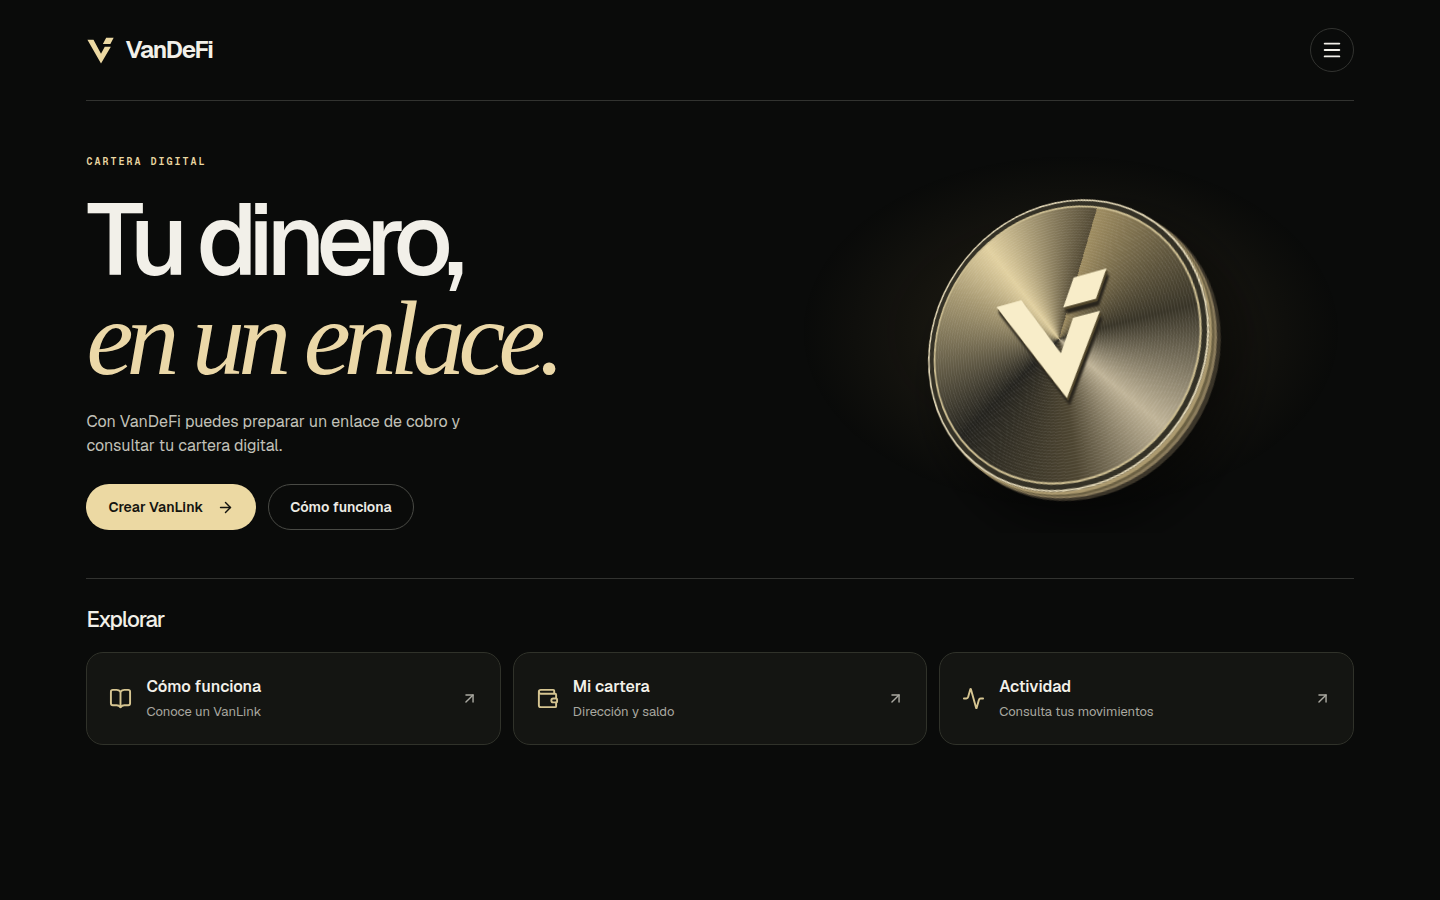
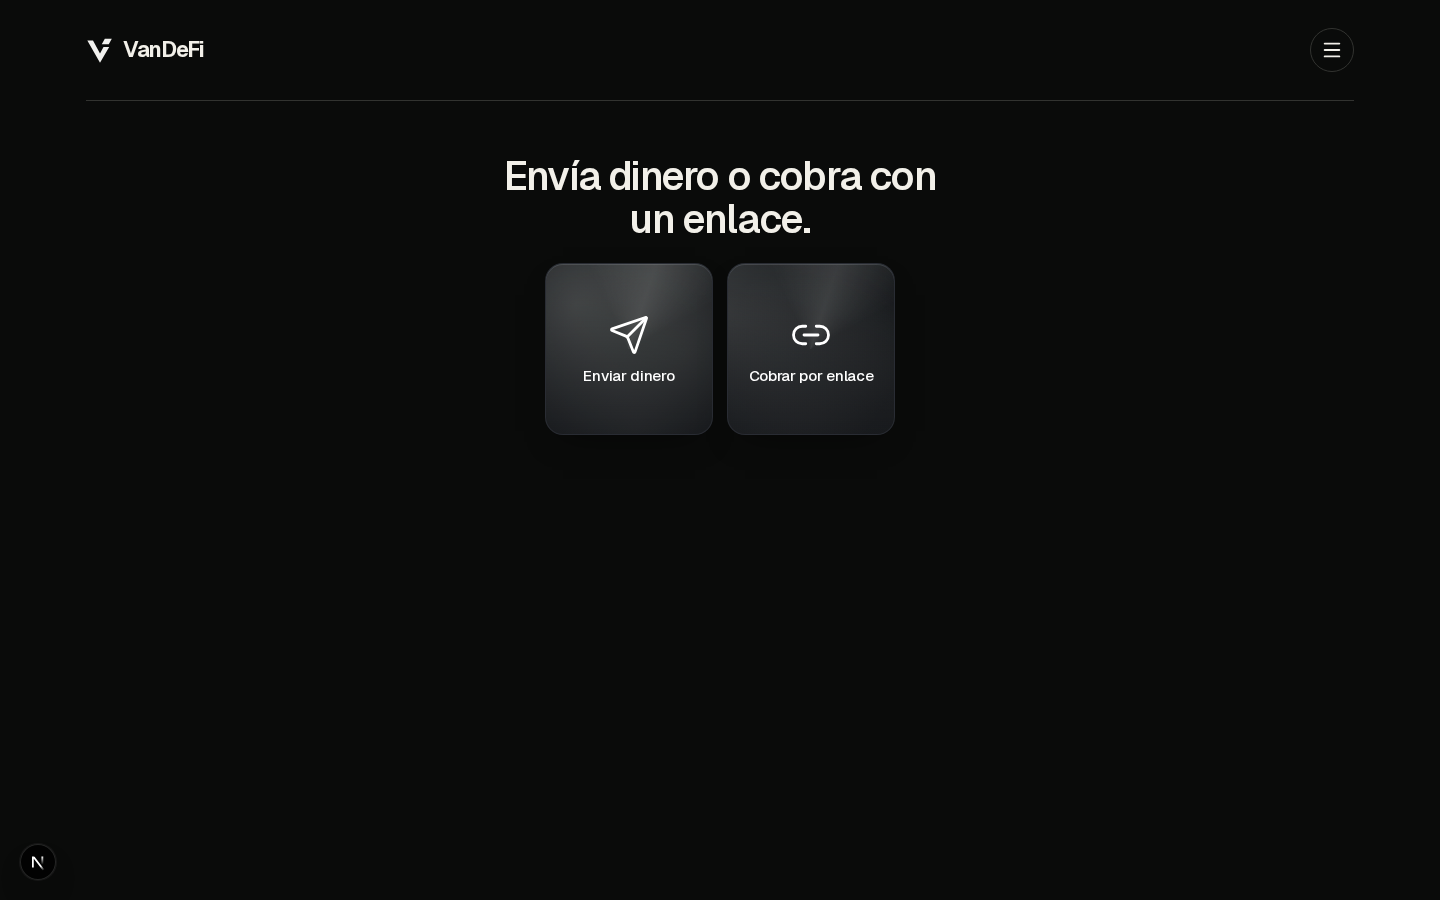
Dejar dos acciones en la portada y el resto en el menú.
Enviar dinero y Cobrar por enlace quedan visibles sin desplazamiento. La hamburguesa abre cartera, actividad y cómo funciona. El panel de remesas no ofrece ruta ni precio. No se crean wallets.

diff --git a/components/module-one/home.tsx b/components/module-one/home.tsx
@@ -3,20 +3,110 @@
 import { useEffect, useRef, useState } from "react";
 import { useRouter } from "next/navigation";
 import { useAuth } from "@clerk/nextjs";
-import { Activity, ArrowDownLeft, ArrowRight, BookOpen, Link2, Menu, Wallet, X } from "lucide-react";
+import { Activity, ArrowRight, BookOpen, Link2, Menu, Send, Wallet, X } from "lucide-react";
 import { Logo, Wordmark } from "@/components/brand/logo";
 import { CreateVanLinkForm } from "@/components/vanlink/create-form";
 import { ActivityList } from "@/components/wallet/activity-list";
 import { authConfigured } from "@/lib/auth-config";
 import { originFrom, panelFrom, panelPath, type Panel } from "@/lib/navigation/module-one";
-import Rail from "./rail";
+import { rankRemittanceQuotes } from "@/lib/remittance/rail-policy";
 
-const choices = [
-  { panel: "guia", title: "Cómo funciona", summary: "Conoce un VanLink", icon: BookOpen },
-  { panel: "cartera", title: "Mi cartera", summary: "Dirección y saldo", icon: Wallet },
-  { panel: "actividad", title: "Actividad", summary: "Consulta tus movimientos", icon: Activity },
+const secondary = [
+  { panel: "cartera", title: "Mi cartera", icon: Wallet },
+  { panel: "actividad", title: "Actividad", icon: Activity },
+  { panel: "guia", title: "Cómo funciona", icon: BookOpen },
 ] as const;
-const titles = { menu: "Menú", guia: "Cómo funciona", crear: "Crear VanLink", cartera: "Mi cartera", actividad: "Actividad" };
+
+const titles = {
+  menu: "Menú",
+  guia: "Cómo funciona",
+  enviar: "Enviar dinero",
+  crear: "Crear VanLink",
+  cartera: "Mi cartera",
+  actividad: "Actividad",
+};
+
+const places = [
+  { id: "MX", name: "México" },
+  { id: "US", name: "Estados Unidos" },
+  { id: "CO", name: "Colombia" },
+  { id: "GT", name: "Guatemala" },
+  { id: "VE", name: "Venezuela" },
+] as const;
+
+type PlaceId = (typeof places)[number]["id"];
+
+function isPlace(value: unknown): value is PlaceId {
+  return places.some((place) => place.id === value);
+}
+
+function RemittancePanel() {
+  const [from, setFrom] = useState<PlaceId>("MX");
+  const [to, setTo] = useState<PlaceId>("US");
+  const [restored, setRestored] = useState(false);
+  const [availability, setAvailability] = useState<"loading" | "paused" | "closed" | "error">("loading");
+  const [attempt, setAttempt] = useState(0);
+
+  useEffect(() => {
+    try {
+      const saved = JSON.parse(sessionStorage.getItem("vd-remit-intent") || "null") as { from?: unknown; to?: unknown } | null;
+      if (isPlace(saved?.from)) setFrom(saved.from);
+      if (isPlace(saved?.to)) setTo(saved.to);
+    } catch { /* a broken draft must not block the panel */ }
+    setRestored(true);
+  }, []);
+
+  useEffect(() => {
+    if (!restored) return;
+    try { sessionStorage.setItem("vd-remit-intent", JSON.stringify({ from, to })); } catch { /* private mode */ }
+  }, [from, to, restored]);
+
+  useEffect(() => {
+    const controller = new AbortController();
+    setAvailability("loading");
+    fetch("/api/polygon/availability", { cache: "no-store", signal: controller.signal })
+      .then(async (response) => {
+        if (!response.ok) throw new Error("availability");
+        const data = await response.json() as { network?: string; chainId?: number; asset?: string; sendEnabled?: boolean; receiveEnabled?: boolean };
+        const known = data.network === "polygon" && data.chainId === 137 && data.asset === "USDT";
+        if (!known) throw new Error("availability");
+        const quotes = rankRemittanceQuotes({
+          inputAsset: "USDT",
+          inputAmount: "1",
+          nowMs: Date.now(),
+          allowedRails: ["polygon"],
+          scope: "fiat-payout",
+        }, []);
+        if (quotes.length > 0) throw new Error("unexpected-route");
+        setAvailability(data.sendEnabled === false && data.receiveEnabled === false ? "paused" : "closed");
+      })
+      .catch(() => { if (!controller.signal.aborted) setAvailability("error"); });
+    return () => controller.abort();
+  }, [attempt]);
+
+  return (
+    <form className="m-remit" onSubmit={(event) => event.preventDefault()}>
+      <p>Elige de dónde sale y a dónde va. Aquí no hay cotización ni envío.</p>
+      <label htmlFor="remit-from">Origen
+        <select id="remit-from" value={from} onChange={(event) => { if (isPlace(event.target.value)) setFrom(event.target.value); }}>
+          {places.map((place) => <option key={place.id} value={place.id}>{place.name}</option>)}
+        </select>
+      </label>
+      <label htmlFor="remit-to">Destino
+        <select id="remit-to" value={to} onChange={(event) => { if (isPlace(event.target.value)) setTo(event.target.value); }}>
+          {places.map((place) => <option key={place.id} value={place.id}>{place.name}</option>)}
+        </select>
+      </label>
+      <p role="status" className="m-status">
+        {availability === "loading" && "Consultando disponibilidad."}
+        {availability === "paused" && "No hay ruta disponible. USDT en Polygon está en pausa. La cotización y el envío llegan en un módulo posterior."}
+        {availability === "closed" && "No hay ruta disponible para cotizar ni enviar. La cotización y el envío llegan en un módulo posterior."}
+        {availability === "error" && "No pudimos consultar la disponibilidad."}
+      </p>
+      {availability === "error" && <button type="button" className="m-primary" onClick={() => setAttempt((n) => n + 1)}>Reintentar</button>}
+    </form>
+  );
+}
 
 function WalletSummary() {
   const [state, setState] = useState<{ status: "loading" | "empty" | "error" | "ready"; amount?: string; address?: string }>({ status: "loading" });
@@ -35,11 +125,13 @@ function WalletSummary() {
     load().catch(() => { if (!controller.signal.aborted) setState({ status: "error" }); });
     return () => controller.abort();
   }, [attempt]);
+  const confirmedZero = state.status === "ready" && Number(state.amount) === 0;
   return <div className="m-wallet" aria-live="polite">
-    {state.status === "loading" && <p>Consultando tu cartera y saldo…</p>}
-    {state.status === "empty" && <p>Tu cuenta aún no tiene una cartera vinculada. Las altas están en pausa.</p>}
-    {state.status === "error" && <><p>No pudimos consultar el saldo.</p><button onClick={() => setAttempt(n => n + 1)}>Reintentar</button></>}
-    {state.status === "ready" && <><small>Saldo confirmado en Polygon</small><h3>{state.amount} USDT</h3><p>Dirección de tu cartera</p><code>{state.address}</code><p>Envíos y depósitos de USDT en Polygon en pausa.</p></>}
+    {state.status === "loading" && <p>Consultando</p>}
+    {state.status === "empty" && <p>Esta cuenta no tiene una cartera vinculada. No se crea una cartera desde aquí.</p>}
+    {state.status === "error" && <><p>No pudimos consultar el saldo.</p><button type="button" className="m-primary" onClick={() => setAttempt(n => n + 1)}>Reintentar</button></>}
+    {confirmedZero && <><small>Cero confirmado</small><h3>0 USDT</h3><p>Dirección de tu cartera</p><code>{state.address}</code><p>USDT en Polygon sigue en pausa. Esta consulta no mueve fondos.</p></>}
+    {state.status === "ready" && !confirmedZero && <><small>Saldo confirmado</small><h3>{state.amount} USDT</h3><p>Dirección de tu cartera</p><code>{state.address}</code><p>USDT en Polygon sigue en pausa. Esta consulta no mueve fondos.</p></>}
   </div>;
 }
 
@@ -61,10 +153,10 @@ function AccountPanel({ panel, path }: { panel: Panel; path: string }) {
     return () => controller.abort();
   }, [attempt]);
   if (session.status === "loading") return <p role="status">Comprobando tu cuenta…</p>;
-  if (session.status === "error") return <><p role="alert">No pudimos conectar con tu cuenta. Tu acción sigue guardada.</p><button className="m-primary" onClick={() => setAttempt(n => n + 1)}>Reintentar</button></>;
+  if (session.status === "error") return <><p role="alert">No pudimos conectar con tu cuenta. Tu acción sigue guardada.</p><button type="button" className="m-primary" onClick={() => setAttempt(n => n + 1)}>Reintentar</button></>;
   if (session.status === "guest") {
     const query = "?volver=" + encodeURIComponent(path);
-    return <><p>{panel === "crear" ? "Entra para preparar tu enlace de cobro. Volverás aquí al terminar." : "Entra para consultar la información de tu cuenta."}</p>
+    return <><p>{panel === "crear" ? "Entra para preparar tu enlace de cobro. Volverás a este formulario al terminar. Entrar no publica un cobro." : "Entra para consultar la información de tu cuenta."}</p>
       <div className="m-actions"><a className="m-primary" href={"/login" + query}>Entrar <ArrowRight size={17} /></a><a className="m-secondary" href={"/sign-up" + query}>Crear cuenta</a></div></>;
   }
   if (panel === "crear") return <CreateVanLinkForm key={session.id} owner={session.id} />;
@@ -77,8 +169,6 @@ function AccountBoundary(props: { panel: Panel; path: string }) {
   return <AccountPanel key={userId || "guest"} {...props} />;
 }
 
-// Portada/Hero and the capsule rail are adapted from turbillon50/vliving-2026.
-// VanDeFi supplies its own destinations, typography, artwork and financial state.
 export function ModuleHome() {
   const router = useRouter();
   const [panel, setPanel] = useState<Panel | null>(null);
@@ -121,22 +211,31 @@ export function ModuleHome() {
     else router.replace(origin);
     requestAnimationFrame(() => (trigger.current?.isConnected ? trigger.current : fallback.current)?.focus({ preventScroll: true }));
   }
-  const menuItems = [{ panel: "crear", title: "Crear VanLink", icon: Link2 }, ...choices] as const;
   return <main className="m-home">
-    <nav className="m-nav" aria-label="Principal"><a href="/" className="m-word"><Logo size={30} /><Wordmark /></a>
-      <button className="m-round" ref={fallback} aria-label="Abrir menú" onClick={() => open("menu")}><Menu size={22} /></button></nav>
-    <header className="m-hero"><div className="m-copy"><h1>Cobrar por enlace</h1>
-      <p>Prepara un VanLink y compártelo por mensaje.</p>
-      <div className="m-actions"><button className="m-primary" onClick={() => open("crear")}>Crear VanLink <ArrowRight size={17} /></button>
-      <button className="m-secondary" onClick={() => open("guia")}>Cómo funciona</button></div></div></header>
-    <section className="m-discover" aria-labelledby="explorar"><h2 id="explorar">Explorar</h2>
-      <Rail className="m-rail">{choices.map(({panel: id,title,summary,icon: Icon})=><button key={id} className="m-tile" onClick={()=>open(id)}><Icon size={23}/><span><strong>{title}</strong><small>{summary}</small></span><ArrowDownLeft size={17}/></button>)}</Rail>
-    </section>
-    {panel && <dialog ref={dialog} className="m-sheet" aria-labelledby="m-title" onCancel={e=>{e.preventDefault();close();}} onClick={e=>{if(e.target===e.currentTarget){const r=e.currentTarget.getBoundingClientRect();if(e.clientX<r.left||e.clientX>r.right||e.clientY<r.top||e.clientY>r.bottom)close();}}}>
-      <header><h2 id="m-title">{titles[panel]}</h2><button className="m-round" aria-label="Cerrar panel" onClick={close}><X size={21}/></button></header>
-      {panel === "menu" ? <div className="m-menu">{menuItems.map(({panel:id,title,icon:Icon})=><button key={id} onClick={()=>open(id)}><Icon size={19}/>{title}<ArrowRight size={16}/></button>)}</div>
-       : panel === "guia" ? <><p>Un VanLink es una solicitud de cobro que puedes compartir por mensaje.</p><ol><li>Elige la red, el importe y el concepto.</li><li>Revisa los datos antes de publicar tu enlace.</li><li>Quien lo recibe puede ver la solicitud y comprobar la red.</li></ol><p>Los cobros en USDT por Polygon están en pausa.</p><button className="m-primary" onClick={()=>open("crear")}>Crear VanLink <ArrowRight size={17}/></button></>
-       : authConfigured ? <AccountBoundary key={panel} panel={panel} path={panelPath(panel,origin)} /> : <p role="status">El acceso no está disponible en este momento.</p>}
+    <nav className="m-nav" aria-label="Principal">
+      <a href="/" className="m-word"><Logo size={28} /><Wordmark size={22} /></a>
+      <button className="m-round" ref={fallback} type="button" aria-label="Abrir menú" aria-expanded={panel === "menu"} onClick={() => open("menu")}><Menu size={22} /></button>
+    </nav>
+    <header className="m-stage">
+      <h1>Envía dinero o cobra con un enlace.</h1>
+      <div className="m-routes">
+        <button type="button" className="m-route" onClick={() => open("enviar")}>
+          <span className="m-mesh" aria-hidden="true" /><span className="m-luz" aria-hidden="true" /><span className="m-vidrio" aria-hidden="true" />
+          <Send className="m-ico" aria-hidden="true" /><b>Enviar dinero</b>
+        </button>
+        <button type="button" className="m-route" onClick={() => open("crear")}>
+          <span className="m-mesh" aria-hidden="true" /><span className="m-luz" aria-hidden="true" /><span className="m-vidrio" aria-hidden="true" />
+          <Link2 className="m-ico" aria-hidden="true" /><b>Cobrar por enlace</b>
+        </button>
+      </div>
+    </header>
+    {panel && <dialog ref={dialog} className="m-sheet" aria-labelledby="m-title" onCancel={e => { e.preventDefault(); close(); }} onClick={e => { if (e.target === e.currentTarget) { const r = e.currentTarget.getBoundingClientRect(); if (e.clientX < r.left || e.clientX > r.right || e.clientY < r.top || e.clientY > r.bottom) close(); } }}>
+      <span className="m-handle" aria-hidden="true" />
+      <header><h2 id="m-title">{titles[panel]}</h2><button className="m-round" type="button" aria-label="Cerrar panel" onClick={close}><X size={21} /></button></header>
+      {panel === "menu" ? <div className="m-menu">{secondary.map(({ panel: id, title, icon: Icon }) => <button key={id} type="button" onClick={() => open(id)}><Icon size={19} />{title}<ArrowRight size={16} /></button>)}</div>
+        : panel === "guia" ? <><p>Un VanLink es una solicitud de cobro que puedes compartir por mensaje.</p><ol><li>Elige la red, el importe y el concepto.</li><li>Revisa los datos antes de publicar tu enlace.</li><li>Quien lo recibe puede ver la solicitud y comprobar la red.</li></ol><p>Los cobros en USDT por Polygon están en pausa. Entrar no publica un cobro.</p><button type="button" className="m-primary" onClick={() => open("crear")}>Cobrar por enlace <ArrowRight size={17} /></button></>
+        : panel === "enviar" ? <RemittancePanel />
+        : authConfigured ? <AccountBoundary key={panel} panel={panel} path={panelPath(panel, origin)} /> : <p role="status">El acceso no está disponible en este momento. Puedes seguir explorando.</p>}
     </dialog>}
   </main>;
 }

diff --git a/components/module-one/home.css b/components/module-one/home.css
@@ -5,21 +5,44 @@
 .m-word{display:inline-flex;gap:9px;align-items:center;color:var(--m-ink);text-decoration:none}
 .m-word svg{color:var(--m-accent)}
 .m-round{display:grid;place-items:center;width:44px;height:44px;color:var(--m-ink);background:transparent;border:1px solid var(--m-edge);border-radius:50%;cursor:pointer}
-.m-hero{padding:clamp(40px,7vh,82px) 0}
-.m-copy{position:relative;z-index:1}
-.m-copy h1{font:540 clamp(40px,5vw,72px)/1.07 var(--font-geist-sans),sans-serif;letter-spacing:-.055em;margin:0 0 16px}
-.m-copy>p,.m-sheet p,.m-sheet li{font-size:16px;line-height:1.55;color:#c1c1b8}
-.m-copy>p{max-width:39ch;margin:0 0 25px}
+.m-stage{display:flex;flex-direction:column;align-items:center;text-align:center;padding:clamp(28px,6vh,64px) 0 8px}
+.m-stage h1{margin:0;max-width:16ch;font:560 clamp(26px,6.4vw,40px)/1.08 var(--font-geist-sans),Arial,sans-serif;letter-spacing:-.045em}
+.m-routes{display:grid;grid-template-columns:repeat(2,minmax(0,168px));gap:14px;justify-content:center;width:100%;margin:22px 0 0}
+.m-route{position:relative;overflow:hidden;aspect-ratio:1/1.02;min-width:0;padding:12px;border-radius:18px;border:1px solid rgba(200,214,228,.16);background:#0b0d11;color:#fff;cursor:pointer;display:flex;flex-direction:column;align-items:center;justify-content:center;gap:12px;box-shadow:inset 0 1px 0 rgba(220,230,240,.16),0 14px 32px -18px rgba(0,0,0,.7);-webkit-tap-highlight-color:transparent;transition:transform .22s ease,box-shadow .22s ease}
+.m-route:active{transform:scale(.97)}
+@media(hover:hover){.m-route:hover{transform:translateY(-2px)}}
+.m-route:active:hover{transform:scale(.97)}
+.m-mesh{position:absolute;inset:-25%;z-index:1;pointer-events:none;background:radial-gradient(circle at 18% 28%,rgba(210,214,208,.28),transparent 42%),radial-gradient(circle at 82% 62%,rgba(120,124,118,.24),transparent 44%),radial-gradient(circle at 48% 88%,rgba(236,236,230,.16),transparent 46%);background-size:160% 160%;animation:m-mesh 7s ease-in-out infinite alternate}
+.m-route:nth-child(2) .m-mesh{animation-delay:-2.4s}
+.m-luz{position:absolute;inset:-60%;z-index:1;pointer-events:none;background:conic-gradient(from 180deg,transparent 0 38%,rgba(230,232,226,.14) 50%,transparent 62%);mix-blend-mode:screen;animation:m-luz 8s linear infinite}
+.m-vidrio{position:absolute;inset:0;z-index:2;pointer-events:none;background:linear-gradient(180deg,rgba(8,10,14,.08),rgba(8,10,14,.55))}
+.m-ico{position:relative;z-index:3;width:clamp(36px,10.5vw,42px);height:auto;aspect-ratio:1;stroke-width:1.6}
+.m-route b{position:relative;z-index:3;font:500 clamp(13px,3.6vw,15px)/1.05 var(--font-geist-sans),Arial,sans-serif;letter-spacing:-.02em}
+.m-handle{display:none}
+.m-remit{display:grid;gap:14px}
+.m-remit label{display:grid;gap:8px;font-size:13px;color:#aaa9a1}
+.m-remit select{min-height:52px;padding:0 14px;border-radius:14px;border:1px solid #3a3b36;background:#10110e;color:#f2f0e9;font:500 16px var(--font-geist-sans),Arial,sans-serif}
 .m-actions{display:flex;align-items:center;gap:12px;flex-wrap:wrap}
-.m-primary,.m-secondary{display:inline-flex;align-items:center;justify-content:center;gap:14px;min-height:46px;padding:0 21px;border:1px solid transparent;border-radius:30px;font:600 14px var(--font-geist-sans),sans-serif;cursor:pointer;text-decoration:none}
+.m-primary,.m-secondary{display:inline-flex;align-items:center;justify-content:center;gap:10px;min-height:46px;padding:0 18px;border:1px solid transparent;border-radius:30px;font:600 14px var(--font-geist-sans),Arial,sans-serif;cursor:pointer;text-decoration:none}
 .m-primary{color:#14140f;background:var(--m-accent)}.m-primary:hover{background:#fff}
 .m-secondary{color:#edece5;background:transparent;border-color:#494a45}
-.m-discover{border-top:1px solid var(--m-edge);padding-top:24px}
-.m-discover h2{margin:0 0 16px;font-size:22px;font-weight:500;letter-spacing:-.045em}
-.m-rail{display:flex;gap:12px;overflow-x:auto;scrollbar-width:none;scroll-snap-type:x proximity}
-.m-tile{flex:1 0 27%;display:flex;align-items:center;gap:14px;text-align:left;background:#141512;border:1px solid #30322a;border-radius:17px;padding:22px;min-height:89px;color:var(--m-ink);cursor:pointer;scroll-snap-align:start}
-.m-tile>svg:first-child{color:#cececa}.m-tile>svg:last-child{margin-left:auto;transform:rotate(180deg);color:var(--m-muted)}
-.m-tile span{display:grid;gap:3px}.m-tile strong{font-size:16px;font-weight:560}.m-tile small{font-size:13px;color:var(--m-muted)}
+.m-sheet p,.m-sheet li{font-size:16px;line-height:1.55;color:#c1c1b8}
+@keyframes m-mesh{from{background-position:0% 20%,100% 80%,40% 100%}to{background-position:80% 0%,10% 40%,70% 20%;transform:scale(1.12)}}
+@keyframes m-luz{to{transform:rotate(360deg)}}
+@media(max-width:730px){
+.m-stage{padding:22px 0 0}
+.m-stage h1{font-size:clamp(24px,6.6vw,30px)}
+.m-routes{grid-template-columns:repeat(2,minmax(0,1fr));gap:10px;margin-top:18px}
+.m-route b{font-size:clamp(13px,3.7vw,15px)}
+.m-handle{display:block;width:38px;height:4px;margin:0 auto 14px;border-radius:999px;background:rgba(255,255,255,.22)}
+}
+@media(min-width:900px){
+.m-routes{grid-template-columns:repeat(2,168px);gap:14px}
+.m-ico{width:42px;height:42px}
+.m-route b{font-size:15px}
+}
+@media(prefers-reduced-motion:reduce){.m-mesh,.m-luz,.m-sheet[open]{animation:none}}
+
 .m-sheet{position:fixed;inset:0 0 0 auto;margin:0;width:min(495px,100vw);height:100dvh;max-height:100dvh;max-width:100vw;padding:32px 30px 48px;border:0;border-left:1px solid #4d4d42;background:#161713;overflow-y:auto;overscroll-behavior:contain;box-sizing:border-box}
 .m-sheet[open]{animation:m-side .2s ease-out}
 .m-sheet::backdrop{background:#0009;backdrop-filter:blur(5px)}
@@ -32,12 +55,7 @@
 @media(max-width:730px){
 .vd-first-paint{display:grid;place-items:center;min-height:100svh;background:#0a0b0a;color:#f1f1ee}
 .m-home{padding:0 21px max(32px,env(safe-area-inset-bottom))}
-.m-nav{padding:calc(12px + env(safe-area-inset-top)) 0 12px}.m-nav .m-round{width:42px;height:42px}
-.m-hero{padding:34px 0 26px}
-.m-copy h1{font-size:clamp(34px,9vw,42px);margin:0 0 12px}
-.m-copy>p{font-size:15px;margin:0 0 18px}.m-actions{gap:9px}
-.m-discover{padding-top:19px}.m-discover h2{font-size:20px;margin-bottom:12px}
-.m-tile{flex:0 0 76%;min-height:76px;padding:15px}
+.m-nav{padding:calc(12px + env(safe-area-inset-top)) 0 12px}.m-nav .m-round{width:44px;height:44px}
 .m-sheet{inset:auto 0 0;width:100%;height:auto;max-height:90dvh;padding:22px 22px max(26px,env(safe-area-inset-bottom));border:1px solid #43463a;border-bottom:0;border-radius:25px 25px 0 0}
 .m-sheet[open]{animation:m-up .18s ease-out}.m-sheet>header{margin-bottom:20px}
 }

diff --git a/components/wallet/activity-list.tsx b/components/wallet/activity-list.tsx
@@ -45,6 +45,7 @@ function AuthenticatedActivityList({ filter }: { filter: ActivityFilter }) {
 }
 
 function UserActivityList({ filter, userId }: { filter: ActivityFilter; userId: string }) {
+  const [attempt, setAttempt] = useState(0);
   const [data, setData] = useState<Response | null>(null);
   const [state, setState] = useState<"cargando" | "listo" | "sin-wallet" | "error">("cargando");
 
@@ -84,14 +85,14 @@ function UserActivityList({ filter, userId }: { filter: ActivityFilter; userId: 
       window.removeEventListener("focus", onFocus);
       document.removeEventListener("visibilitychange", onFocus);
     };
-  }, [userId]);
+  }, [userId, attempt]);
 
-  if (state === "cargando") return <div className="act-skeleton" aria-label="Cargando movimientos" />;
+  if (state === "cargando") return <p role="status">Consultando</p>;
   if (state === "sin-wallet") {
     return <p className="bal-note">Inicia sesión o entra a tu wallet para consultar los movimientos.</p>;
   }
   if (state === "error" || !data) {
-    return <p className="bal-note">No pudimos leer tu actividad ahora. Intenta de nuevo.</p>;
+    return <><p className="bal-note">No pudimos leer tu actividad ahora.</p><button type="button" onClick={() => setAttempt((n) => n + 1)}>Reintentar</button></>;
   }
 
   const list = data.movements.filter((m) => filter === "all" || m.direction === filter);
@@ -106,8 +107,8 @@ function UserActivityList({ filter, userId }: { filter: ActivityFilter; userId: 
       )}
       {list.length === 0 ? (
         <p className="bal-note">
-          {filter === "all" ? (data.baseRecentOnly ? "No encontramos movimientos en la ventana reciente consultada." : "Todavía no hay movimientos.")
-            : filter === "in" ? "Aún no hay entradas." : "Aún no hay salidas."}
+          {filter === "all" ? (data.baseRecentOnly ? "No encontramos movimientos en la ventana reciente consultada." : "Cero confirmado. Todavía no hay movimientos.")
+            : filter === "in" ? "Cero confirmado. Aún no hay entradas." : "Cero confirmado. Aún no hay salidas."}
         </p>
       ) : (
         <ul className="act-list">

diff --git a/components/auth/auth.css b/components/auth/auth.css
@@ -79,7 +79,18 @@
 }
 
 .va-auth-side, .va-auth-form, .va-clerk-cardbox, .va-clerk-card { min-width: 0; }
-.va-auth .va-label { display: block; height: auto !important; min-height: 1.5em; line-height: 1.5 !important; white-space: normal; overflow: visible; }
+.va-auth .va-label,
+.va-auth .cl-formFieldLabel,
+.va-auth .cl-formFieldLabelRow {
+  display: block;
+  height: auto !important;
+  max-height: none !important;
+  min-height: 1.5em;
+  line-height: 1.5 !important;
+  white-space: normal !important;
+  overflow: visible !important;
+  text-overflow: unset !important;
+}
 .va-auth .va-input { min-width: 0; width: 100%; }
 .va-auth .va-auth-panel { overflow: visible; }
 .va-auth .va-primary { position: relative; pointer-events: auto; }

diff --git a/app/layout.tsx b/app/layout.tsx
@@ -12,8 +12,8 @@ const geistMono = Geist_Mono({
   variable: "--font-geist-mono",
 });
 export const metadata: Metadata = {
-  title: "VanDeFi · Tu dinero. Tu control.",
-  description: "Consulta tu wallet de USDT en Polygon y el estado de tus movimientos.",
+  title: "VanDeFi",
+  description: "Envía dinero o cobra con un enlace.",
   applicationName: "VanDeFi",
   manifest: "/manifest.webmanifest",
   appleWebApp: {

diff --git a/lib/navigation/module-one.ts b/lib/navigation/module-one.ts
@@ -1,6 +1,6 @@
 import { safeInternalPath } from "./return-path";
 
-export const panelNames = ["menu", "guia", "crear", "cartera", "actividad"] as const;
+export const panelNames = ["menu", "guia", "enviar", "crear", "cartera", "actividad"] as const;
 export type Panel = typeof panelNames[number];
 export function panelFrom(url: URL): Panel | null {
   const value = url.searchParams.get("panel");
